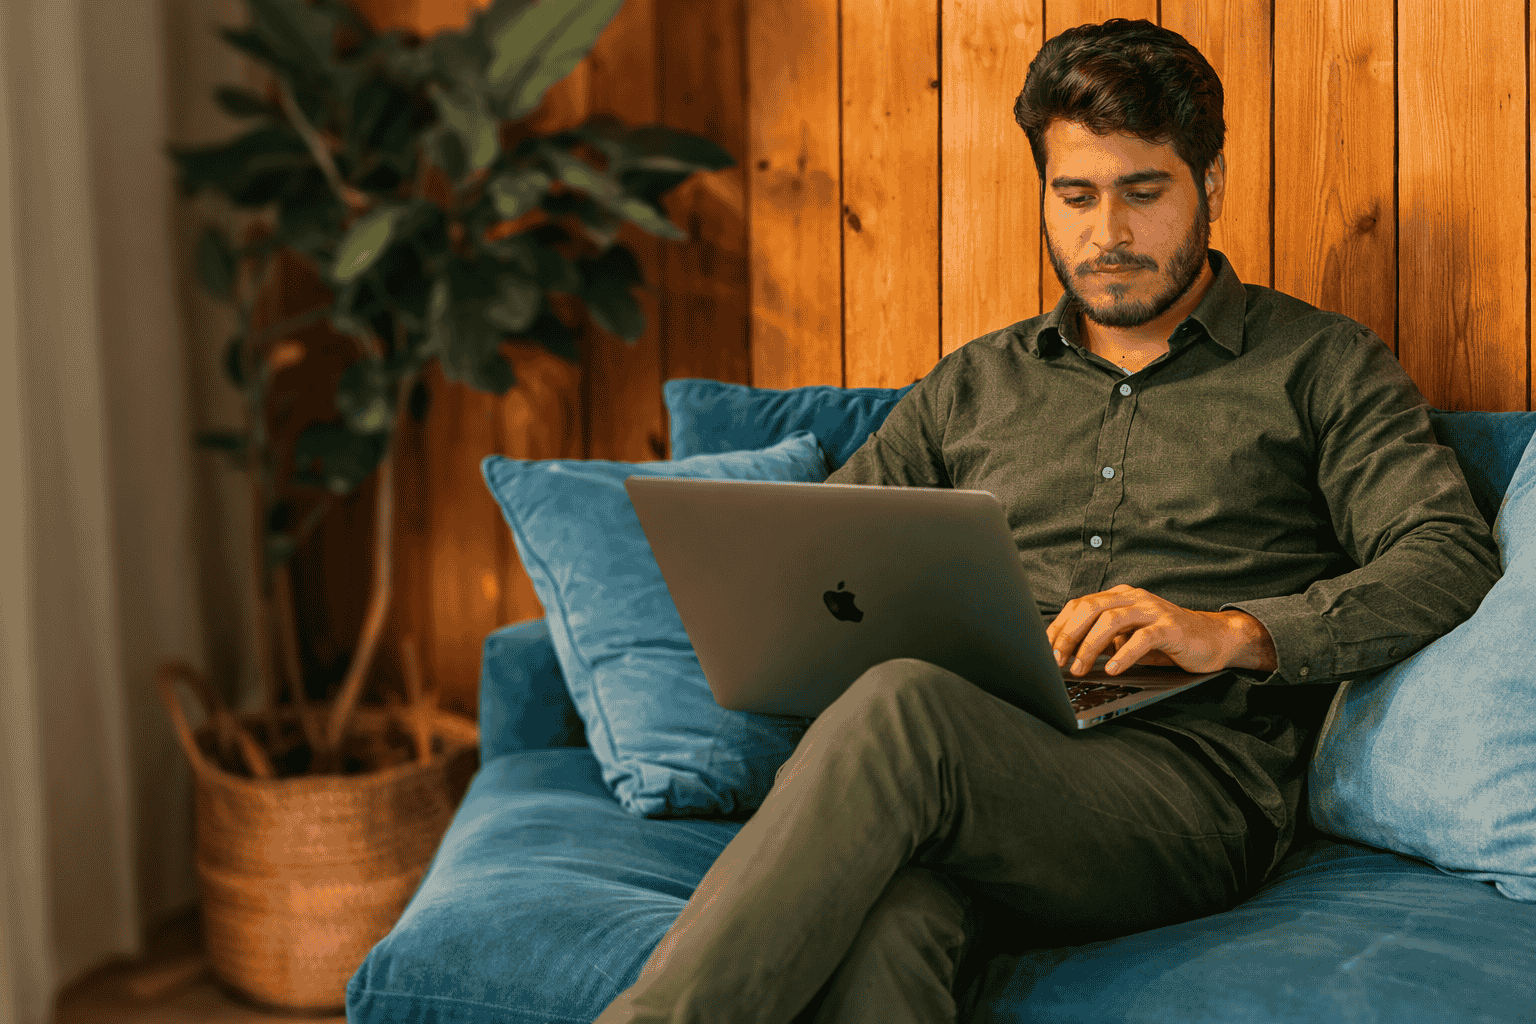
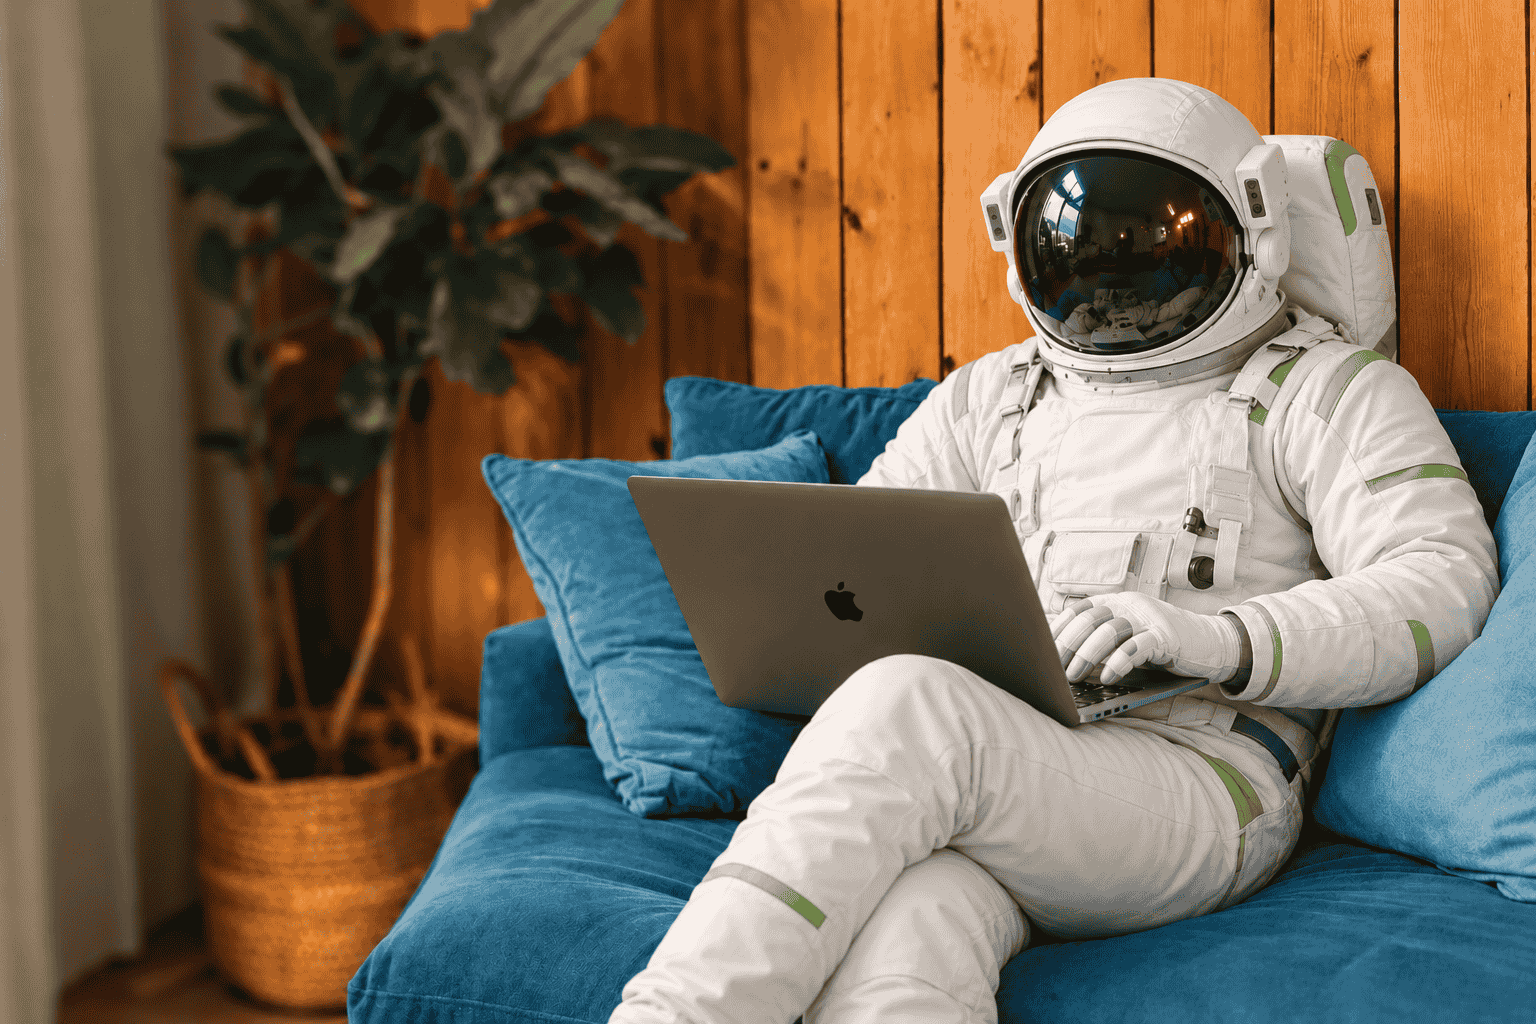
feat: implement dynamic site settings management and add global navbar/footer components

diff --git a/src/components/Global/Footer.tsx b/src/components/Global/Footer.tsx
@@ -4,7 +4,7 @@ import Image from "next/image";
 import Link from "next/link";
 import { useQuery } from "@tanstack/react-query";
 import { usePathname } from "next/navigation";
-import { FaFacebookF, FaInstagram, FaLinkedinIn, FaWhatsapp } from "react-icons/fa";
+import { FaFacebookF, FaInstagram, FaLinkedinIn, FaTiktok, FaWhatsapp, FaXTwitter, FaYoutube } from "react-icons/fa6";
 import { Separator } from "@/components/ui/separator";
 import { getPublicSettings } from "@/lib/api/settings";
 import { SITE_CONFIG } from "@/lib/site";
@@ -94,6 +94,7 @@ const Footer = () => {
                                         className="text-[#E9F3E6]/85 transition-colors hover:text-[#E9F3E6]"
                                         target="_blank"
                                         rel="noopener noreferrer"
+                                        aria-label="Instagram"
                                     >
                                         <FaInstagram size={20} />
                                     </a>
@@ -102,6 +103,7 @@ const Footer = () => {
                                         className="text-[#E9F3E6]/85 transition-colors hover:text-[#E9F3E6]"
                                         target="_blank"
                                         rel="noopener noreferrer"
+                                        aria-label="LinkedIn"
                                     >
                                         <FaLinkedinIn size={20} />
                                     </a>
@@ -110,6 +112,7 @@ const Footer = () => {
                                         className="text-[#E9F3E6]/85 transition-colors hover:text-[#E9F3E6]"
                                         target="_blank"
                                         rel="noopener noreferrer"
+                                        aria-label="WhatsApp"
                                     >
                                         <FaWhatsapp size={20} />
                                     </a>
@@ -118,9 +121,43 @@ const Footer = () => {
                                         className="text-[#E9F3E6]/85 transition-colors hover:text-[#E9F3E6]"
                                         target="_blank"
                                         rel="noopener noreferrer"
+                                        aria-label="Facebook"
                                     >
                                         <FaFacebookF size={18} />
                                     </a>
+                                    {settings?.youtube ? (
+                                        <a
+                                            href={settings.youtube}
+                                            className="text-[#E9F3E6]/85 transition-colors hover:text-[#E9F3E6]"
+                                            target="_blank"
+                                            rel="noopener noreferrer"
+                                            aria-label="YouTube"
+                                        >
+                                            <FaYoutube size={20} />
+                                        </a>
+                                    ) : null}
+                                    {settings?.tiktok ? (
+                                        <a
+                                            href={settings.tiktok}
+                                            className="text-[#E9F3E6]/85 transition-colors hover:text-[#E9F3E6]"
+                                            target="_blank"
+                                            rel="noopener noreferrer"
+                                            aria-label="TikTok"
+                                        >
+                                            <FaTiktok size={18} />
+                                        </a>
+                                    ) : null}
+                                    {settings?.x ? (
+                                        <a
+                                            href={settings.x}
+                                            className="text-[#E9F3E6]/85 transition-colors hover:text-[#E9F3E6]"
+                                            target="_blank"
+                                            rel="noopener noreferrer"
+                                            aria-label="X (Twitter)"
+                                        >
+                                            <FaXTwitter size={18} />
+                                        </a>
+                                    ) : null}
                                 </div>
                             </div>
                         </div>

diff --git a/src/components/Dashboard/DashboardSettings.tsx b/src/components/Dashboard/DashboardSettings.tsx
@@ -20,6 +20,9 @@ const initialFormState: UpsertSiteSettingsPayload = {
   instagram: "",
   linkedin: "",
   facebook: "",
+  youtube: "",
+  tiktok: "",
+  x: "",
 };
 
 function SettingsField({
@@ -65,6 +68,9 @@ export default function DashboardSettings() {
     instagram: data?.instagram || initialFormState.instagram,
     linkedin: data?.linkedin || initialFormState.linkedin,
     facebook: data?.facebook || initialFormState.facebook,
+    youtube: data?.youtube || initialFormState.youtube,
+    tiktok: data?.tiktok || initialFormState.tiktok,
+    x: data?.x || initialFormState.x,
   };
 
   const { mutate, isPending } = useMutation({
@@ -227,15 +233,34 @@ export default function DashboardSettings() {
                         onChange={(value) => handleChange("linkedin", value)}
                         placeholder="Enter LinkedIn URL"
                       />
-                      <div className="md:col-span-2">
-                        <SettingsField
-                          id="facebook"
-                          label="Facebook"
-                          value={formData.facebook}
-                          onChange={(value) => handleChange("facebook", value)}
-                          placeholder="Enter Facebook URL"
-                        />
-                      </div>
+                      <SettingsField
+                        id="facebook"
+                        label="Facebook"
+                        value={formData.facebook}
+                        onChange={(value) => handleChange("facebook", value)}
+                        placeholder="Enter Facebook URL"
+                      />
+                      <SettingsField
+                        id="youtube"
+                        label="YouTube"
+                        value={formData.youtube || ""}
+                        onChange={(value) => handleChange("youtube", value)}
+                        placeholder="Enter YouTube channel URL"
+                      />
+                      <SettingsField
+                        id="tiktok"
+                        label="TikTok"
+                        value={formData.tiktok || ""}
+                        onChange={(value) => handleChange("tiktok", value)}
+                        placeholder="Enter TikTok profile URL"
+                      />
+                      <SettingsField
+                        id="x"
+                        label="X (Twitter)"
+                        value={formData.x || ""}
+                        onChange={(value) => handleChange("x", value)}
+                        placeholder="Enter X / Twitter profile URL"
+                      />
                     </div>
                   ) : null}
                 </article>

diff --git a/src/components/Global/Navbar.tsx b/src/components/Global/Navbar.tsx
@@ -68,7 +68,7 @@ export default function Navbar({ forceBackground = false }: NavbarProps) {
                     >
                         <Link href="/" className="flex items-center">
                             <Image
-                                src="/quzex1.png"
+                                src="/quzex.png"
                                 alt={SITE_CONFIG.name}
                                 width={470}
                                 height={207}

diff --git a/src/models/SiteSettings.ts b/src/models/SiteSettings.ts
@@ -43,6 +43,21 @@ const siteSettingsSchema = new Schema<SiteSettings>(
       required: true,
       trim: true,
     },
+    youtube: {
+      type: String,
+      trim: true,
+      default: "",
+    },
+    tiktok: {
+      type: String,
+      trim: true,
+      default: "",
+    },
+    x: {
+      type: String,
+      trim: true,
+      default: "",
+    },
   },
   {
     timestamps: true,

diff --git a/src/app/api/admin/settings/route.ts b/src/app/api/admin/settings/route.ts
@@ -42,6 +42,9 @@ export async function PUT(request: NextRequest) {
       instagram: String(body.instagram || "").trim(),
       linkedin: String(body.linkedin || "").trim(),
       facebook: String(body.facebook || "").trim(),
+      youtube: String(body.youtube || "").trim(),
+      tiktok: String(body.tiktok || "").trim(),
+      x: String(body.x || "").trim(),
     };
 
     if (

diff --git a/src/types/site-settings.ts b/src/types/site-settings.ts
@@ -7,6 +7,9 @@ export type SiteSettings = {
   instagram: string;
   linkedin: string;
   facebook: string;
+  youtube?: string;
+  tiktok?: string;
+  x?: string;
   createdAt?: Date | string;
   updatedAt?: Date | string;
 };
@@ -25,4 +28,7 @@ export type UpsertSiteSettingsPayload = Pick<
   | "instagram"
   | "linkedin"
   | "facebook"
+  | "youtube"
+  | "tiktok"
+  | "x"
 >;
